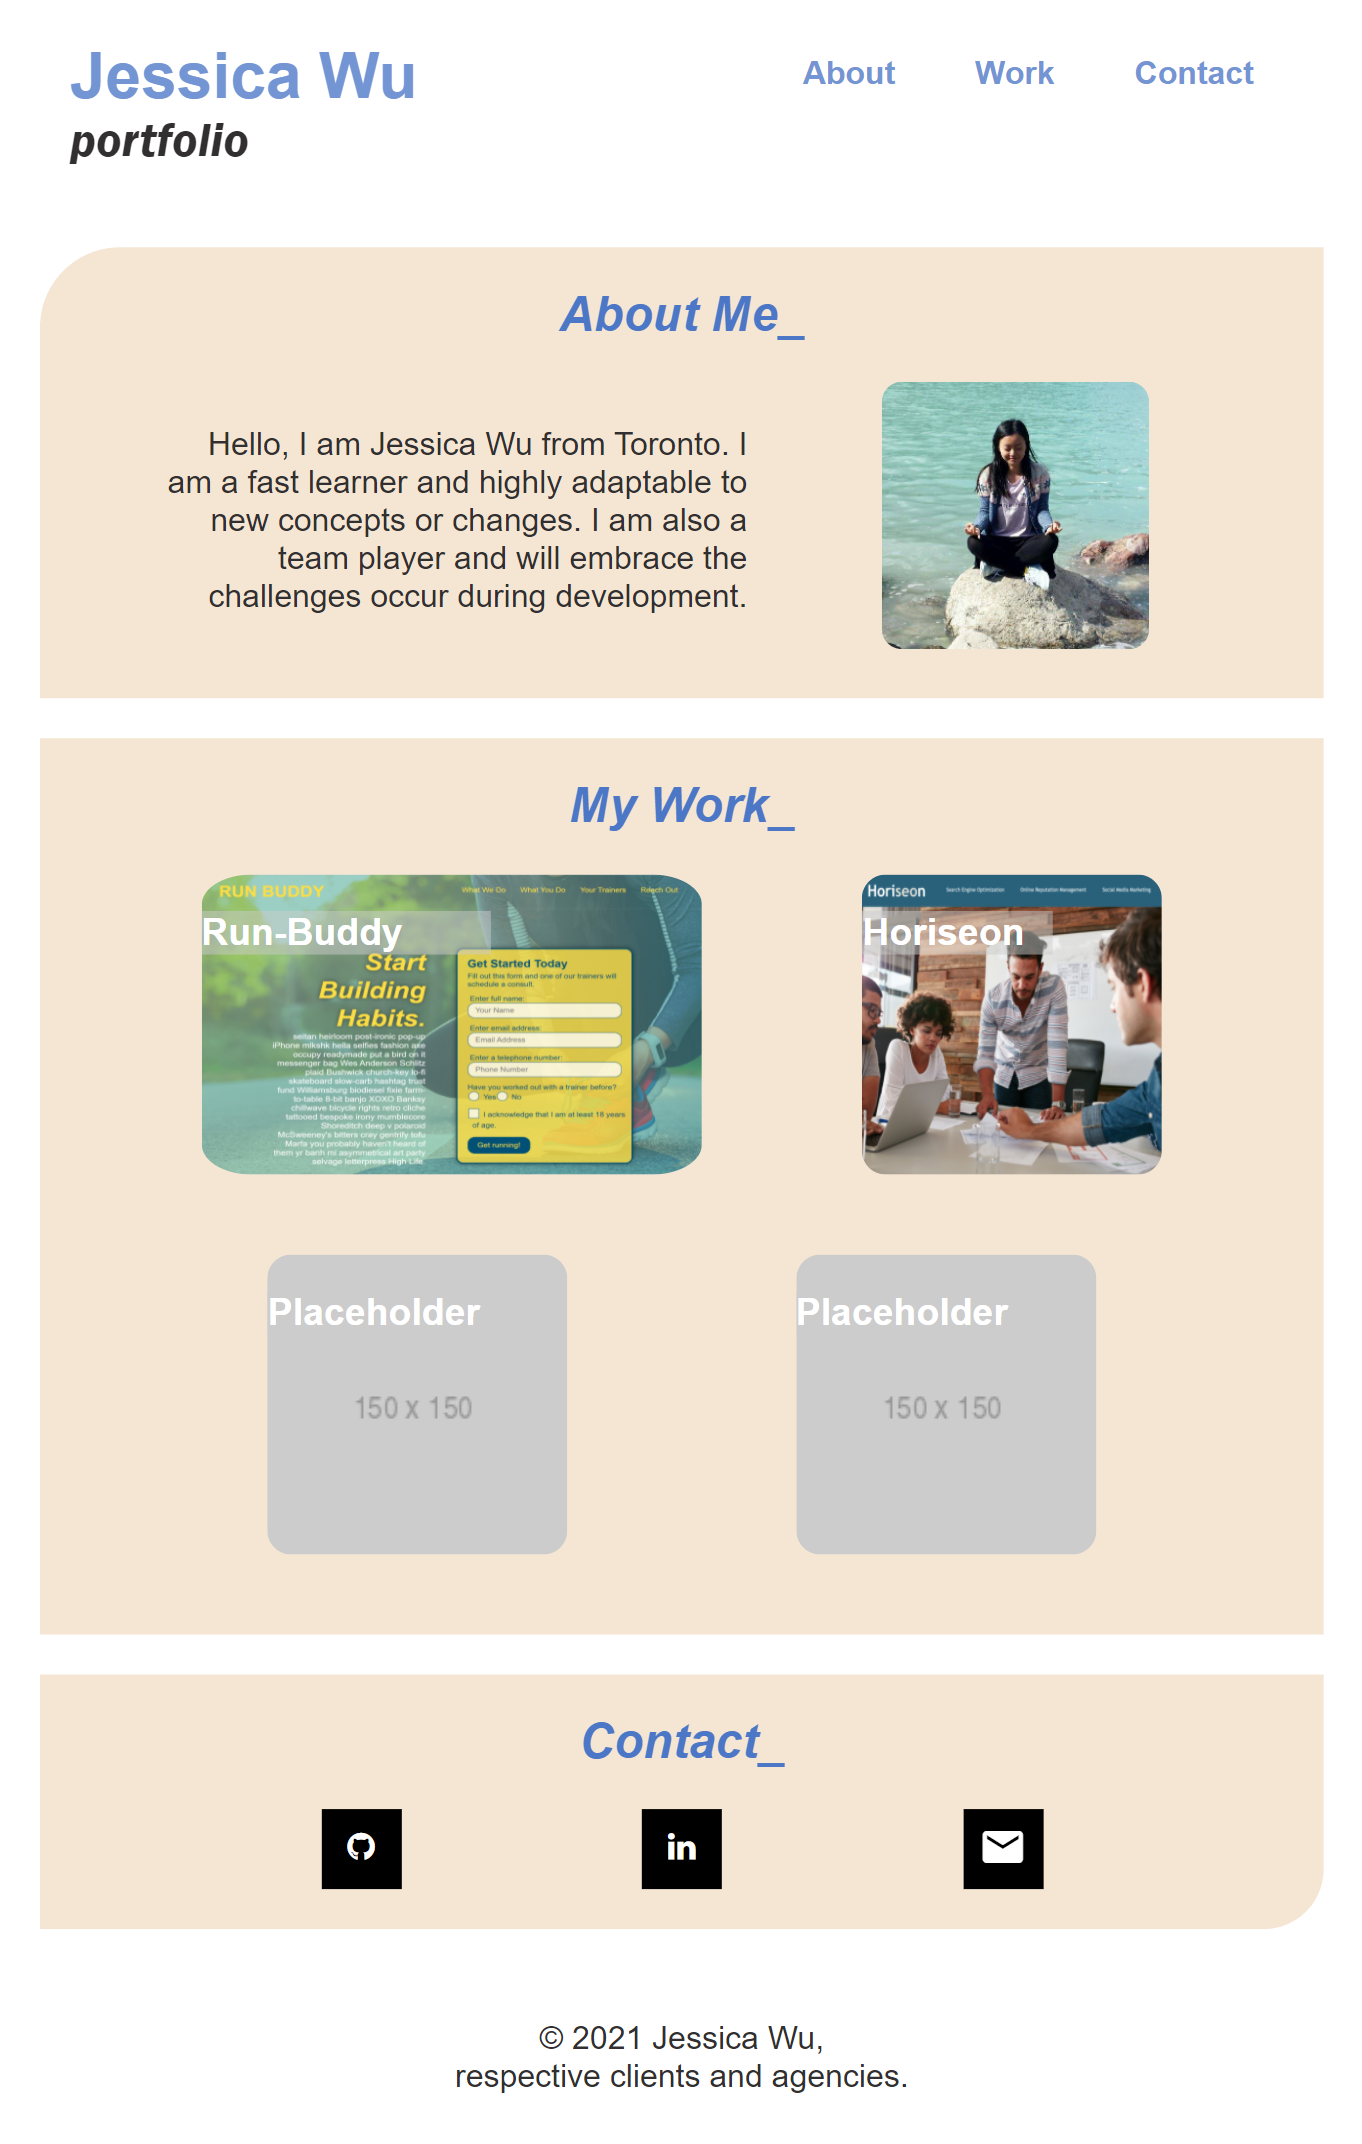
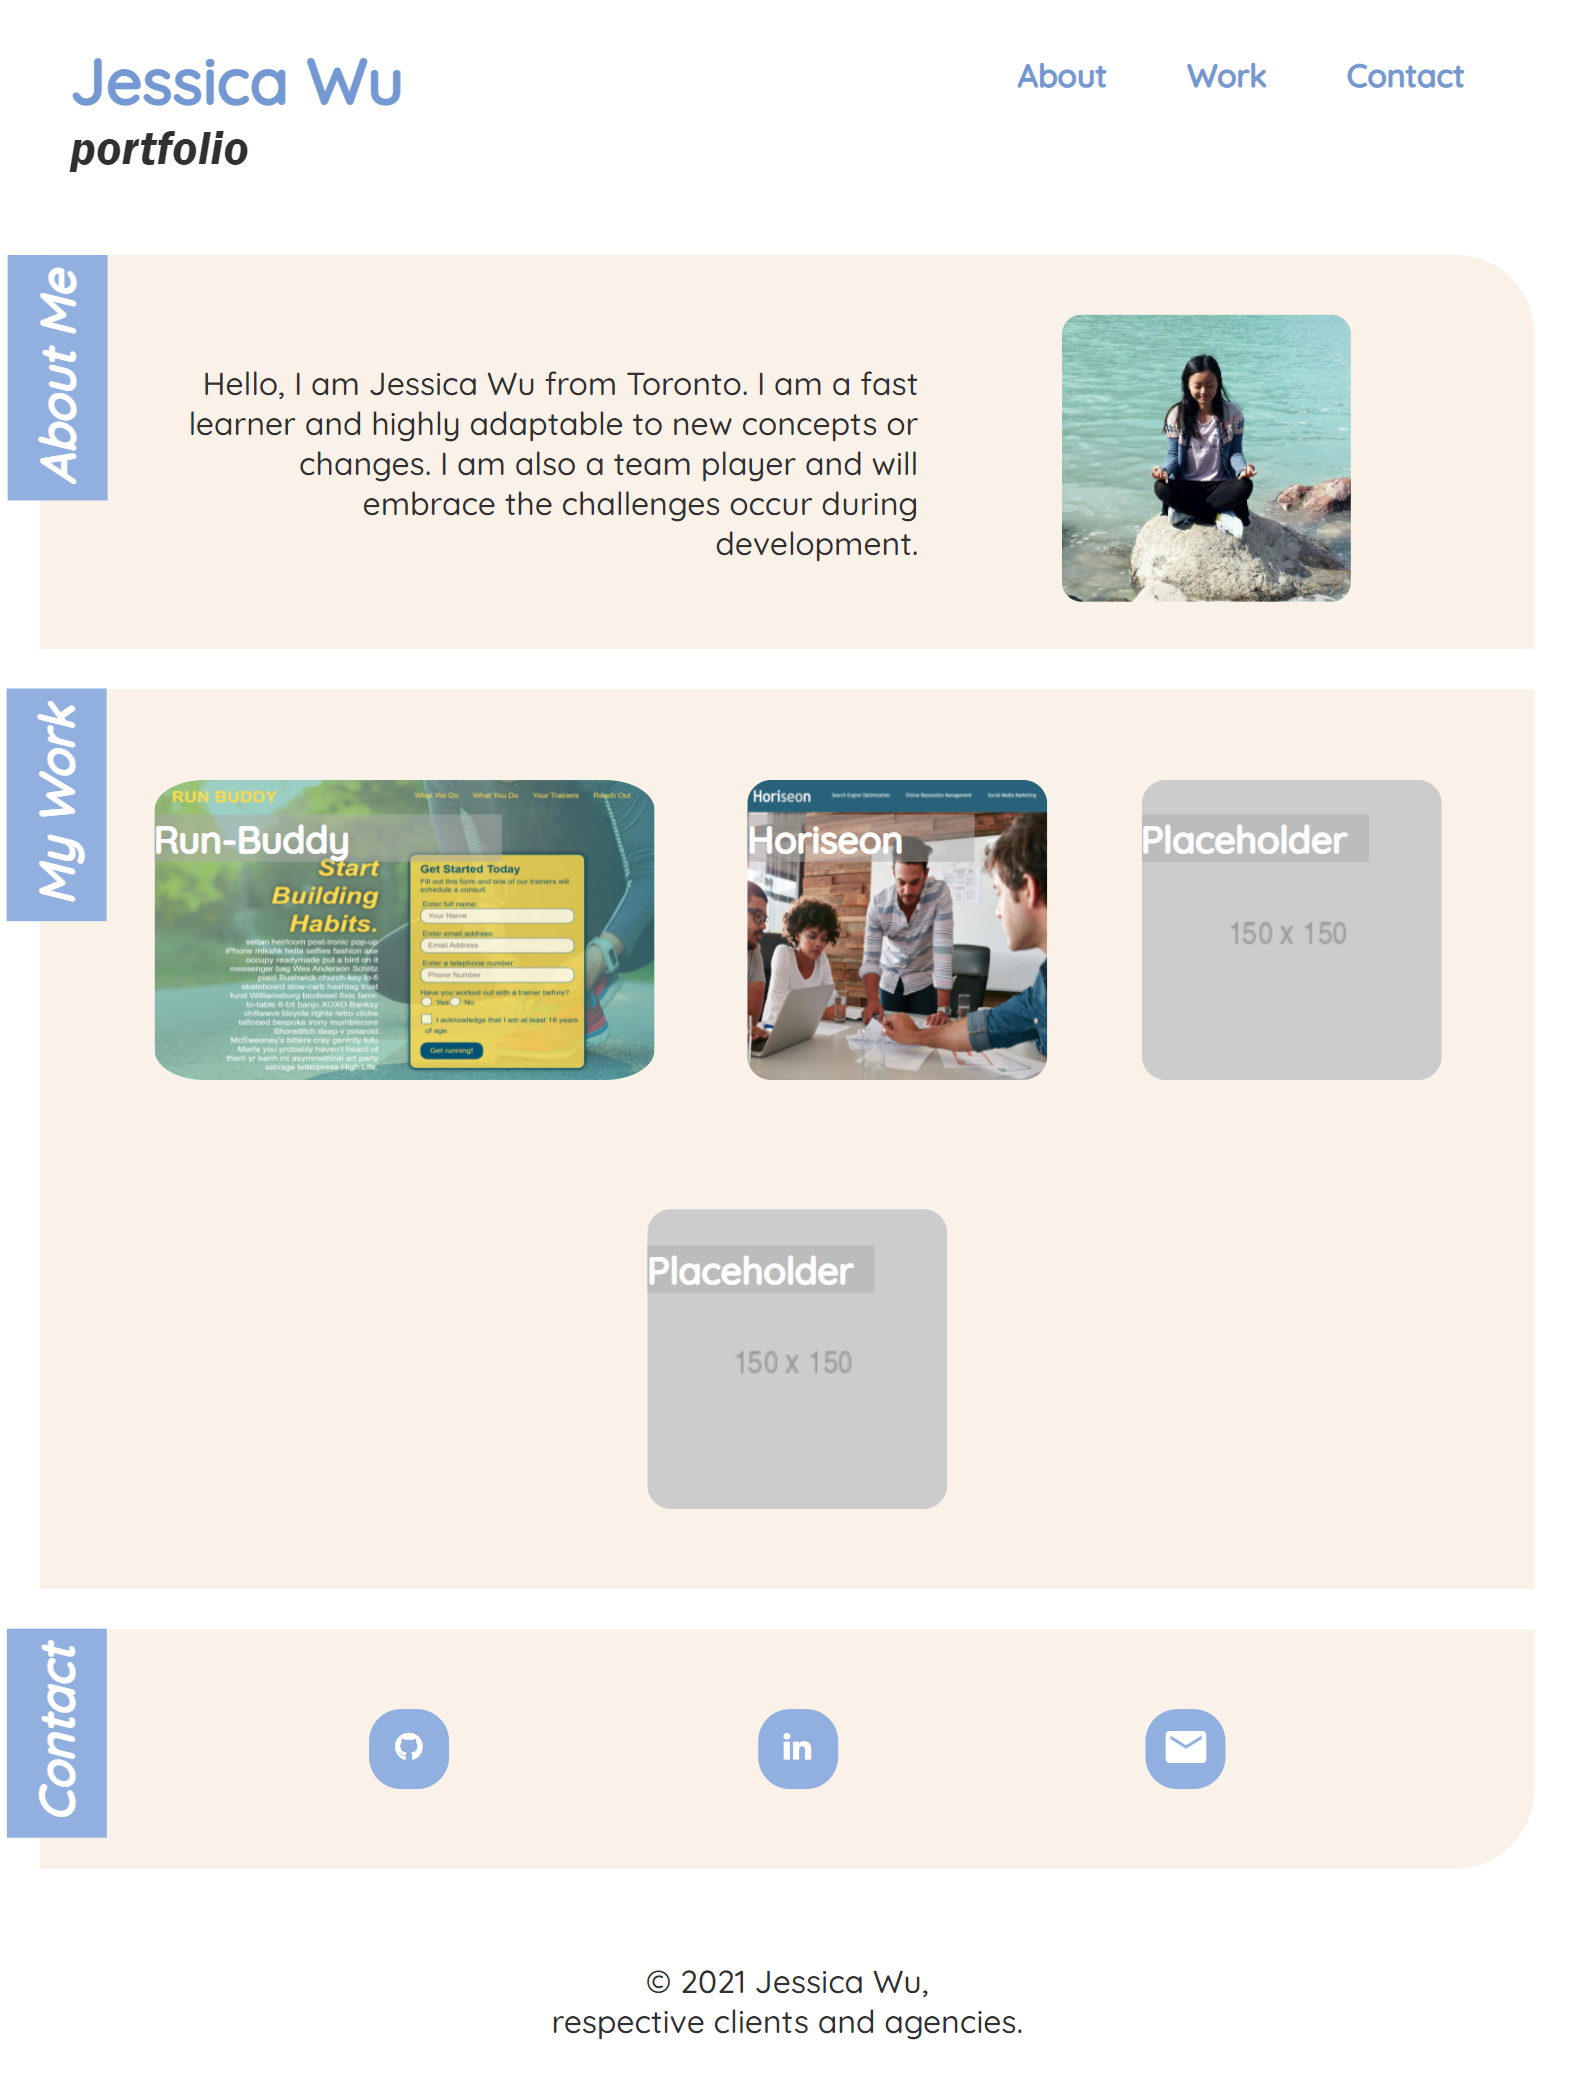
updated css styles

diff --git a/assets/style.css b/assets/style.css
@@ -1,6 +1,6 @@
 * {
     color: rgb(49, 47, 47);
-    font-family: Helvetica, Arial, sans-serif;
+    font-family: 'Quicksand', Arial, sans-serif;
     box-sizing: border-box;
     margin: 0;
   }
@@ -30,9 +30,11 @@ header h2 {
     color: rgb(49, 47, 47);;
 }
 
-header a:hover {
+.nav a:hover {
     opacity: 0.7;
     color: rgb(159, 98, 202);
+    text-decoration: underline;
+    font-size: 120%;
   }
 
 header nav ul {
@@ -50,24 +52,33 @@ header nav ul li a {
 
 /* Body Styles */
 section {
-    background-color: rgb(245, 230, 212);
+    background: rgba(245, 230, 212, 0.5);
     margin: 20px;
 }
 
 .section-title {
-    color: rgb(76, 119, 199);
+    color: rgb(255, 255, 255);
+    background-color: rgb(147, 174, 224);
+    padding: 10px 8px;
     font-style: italic;
-    text-align: center;
+    line-height: 30px;
+    white-space: nowrap;
+    position: absolute;
+    right: 97%;
+    transform-origin: top right 0;
+    transform: rotate( 270deg );
+    margin-right: 20px;
 }
 
 .about-me {
-    border-top-left-radius: 40px;
+    border-top-right-radius: 40px;
 }
 
 .container {
     display: flex;
     align-items: center;
     justify-content: space-between;
+    margin-top: 10px;
 }
 
 .image img{
@@ -88,7 +99,7 @@ section {
 
 #about, #work, #contact {
     text-align: center;
-    padding: 20px;
+    padding: 0 20px 20px 30px;
 }
 
 .flex-row {
@@ -108,6 +119,7 @@ section {
     width: 150px;
     height: 150px;
     border-radius: 8%;
+
 }
 
 .work-img1 img {
@@ -121,17 +133,18 @@ section {
     display: inline-block;
     position: relative;
     text-align: center;
+    margin-top: 25px;
 }
 
 .works h3 {
     background-color: #a8adba;
-    background: rgba(204, 204, 204, 0.5);
-    color: rgb(255, 255, 255);
+    background: rgba(173, 171, 171, 0.5);
+    color: rgb(253, 253, 253);
     align-items: flex-end;  
     position: absolute;
     top: 20%;
     left: 20px;
-    width: 50%;
+    width: 60%;
 }
 
 /* Add a hover effect if you want */
@@ -153,8 +166,10 @@ section {
     height: 40px;
     text-align: center;
     text-decoration: none;
-    background: black;
+    background: rgb(147, 174, 224);
     color: white;
+    margin: 20px;
+    border-radius: 40%;
 }
 
 .material-icons {
@@ -164,8 +179,10 @@ section {
     height: 40px;
     text-align: center;
     text-decoration: none;
-    background: black;
+    background: rgb(147, 174, 224);
     color: white;
+    margin: 20px;
+     border-radius: 40%;
 }
 
   /* Add a hover effect if you want */
@@ -181,7 +198,7 @@ footer {
 }
 
 .contact-me {
-    border-bottom-right-radius: 30px;
+    border-bottom-right-radius: 40px;
 }
 
 .flex-contact {

diff --git a/index.html b/index.html
@@ -7,7 +7,8 @@
     <link rel="stylesheet" href="./assets/style.css">
     <link rel="stylesheet" href="https://cdnjs.cloudflare.com/ajax/libs/font-awesome/4.7.0/css/font-awesome.min.css">
     <link href="https://fonts.googleapis.com/icon?family=Material+Icons" rel="stylesheet">
-
+    <link href="https://fonts.googleapis.com/css?family=Quicksand:300,500" rel="stylesheet">
+    
     <title>Jessica Wu | Web Developer</title>
 </head>
 <body>
@@ -40,7 +41,7 @@
  <!-- "About" start - <section> -->
     <section id="about" class="about-me">
       <h2 class="section-title">
-        About Me_
+        About Me
       </h2></br>
       <div class="container">
         <div class="image-text">
@@ -57,7 +58,7 @@
 
       <section id="work" class="my-work">
         <h2 class="section-title">
-          My Work_
+          My Work
         </h2>
         <div class="flex-row">
         <div class="works">
@@ -95,7 +96,7 @@
 
     <section id="contact" class="contact-me">
       <h2 class="section-title">
-        Contact_
+        Contact
       </h2></br>  
       <div class="flex-row flex-contact">
         <a href="https://github.com/jessibewu" class="fa fa-github"></a>
